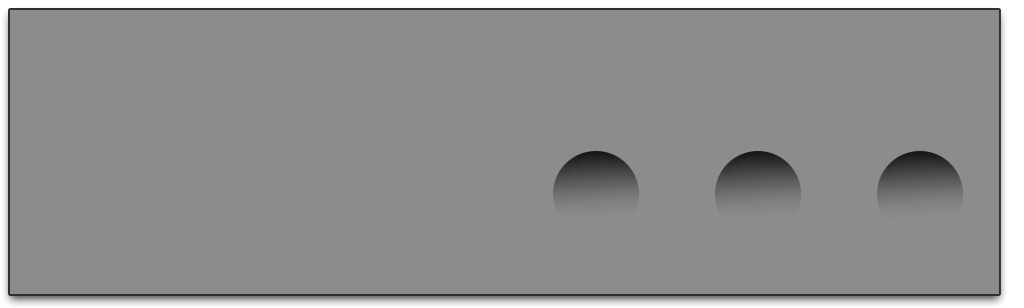
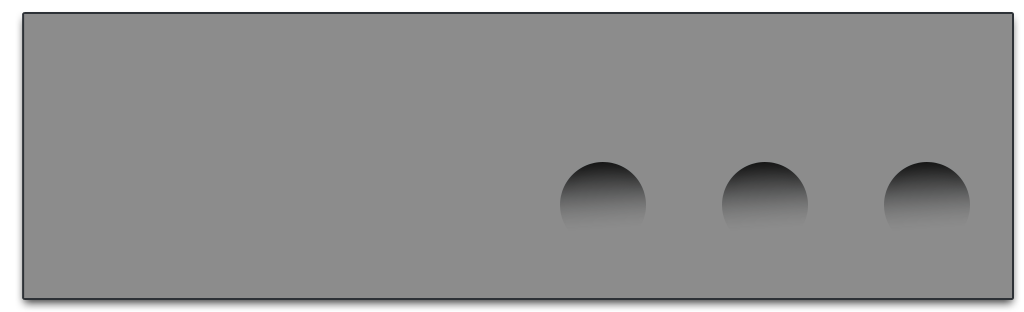
Sorted out alignment issues

diff --git a/RockPack/SYNVideoThumbnailCell.m b/RockPack/SYNVideoThumbnailCell.m
@@ -9,6 +9,13 @@
 #import "SYNVideoThumbnailCell.h"
 #import "UIFont+SYNFont.h"
 
+@interface SYNVideoThumbnailCell ()
+
+@property (nonatomic, strong) IBOutlet UIImageView *highlightedBackgroundView;
+@property (nonatomic, strong) IBOutlet UIImageView *backgroundView;
+
+@end
+
 @implementation SYNVideoThumbnailCell
 
 - (id) initWithFrame: (CGRect) frame
@@ -48,6 +55,20 @@
     self.addItButton.hidden = FALSE;
     self.shareItButton.enabled = FALSE;
     self.shareItButton.hidden = TRUE;
+    self.highlightedBackgroundView.hidden = TRUE;
+}
+
+
+- (void) setHighlighted: (BOOL) highlighted
+{
+    if (highlighted)
+    {
+        self.highlightedBackgroundView.hidden = FALSE;
+    }
+    else
+    {
+        self.highlightedBackgroundView.hidden = TRUE;
+    }
 }
 
 - (void) setThirdButtonType: (int) buttonType

diff --git a/RockPack/SYNHomeTopTabViewController.m b/RockPack/SYNHomeTopTabViewController.m
@@ -98,6 +98,10 @@
     
     SYNVideoThumbnailCell *cell = [cv dequeueReusableCellWithReuseIdentifier: @"ThumbnailCell"
                                                                 forIndexPath: indexPath];
+    if ((indexPath.row < 3) && (indexPath.section == 0))
+    {
+        cell.highlighted = TRUE;
+    }
     
     cell.imageView.image = video.keyframeImage;
     
@@ -193,7 +197,7 @@
             break;
     }
     
-    [reusableView highlighted: highlighted];
+    reusableView.highlighted = highlighted;
     reusableView.sectionTitleLabel.text = sectionText;
     
     return reusableView;

diff --git a/RockPack/SYNVideoThumbnailCell.h b/RockPack/SYNVideoThumbnailCell.h
@@ -26,5 +26,6 @@ enum {
 @property (nonatomic, strong) IBOutlet UILabel *rockItNumber;
 
 - (void) setThirdButtonType: (int) buttonType;
+- (void) setHighlighted: (BOOL) highlighted;
 
 @end

diff --git a/RockPack/SYNHomeSectionHeaderView.h b/RockPack/SYNHomeSectionHeaderView.h
@@ -12,6 +12,6 @@
 
 @property (nonatomic, strong) IBOutlet UILabel *sectionTitleLabel;
 
-- (void) highlighted: (BOOL) highlighted;
+- (void) setHighlighted: (BOOL) highlighted;
 
 @end

diff --git a/RockPack/SYNHomeSectionHeaderView.m b/RockPack/SYNHomeSectionHeaderView.m
@@ -54,7 +54,7 @@
 }
 
 
-- (void) highlighted: (BOOL) highlighted
+- (void) setHighlighted: (BOOL) highlighted
 {
     if (highlighted)
     {
